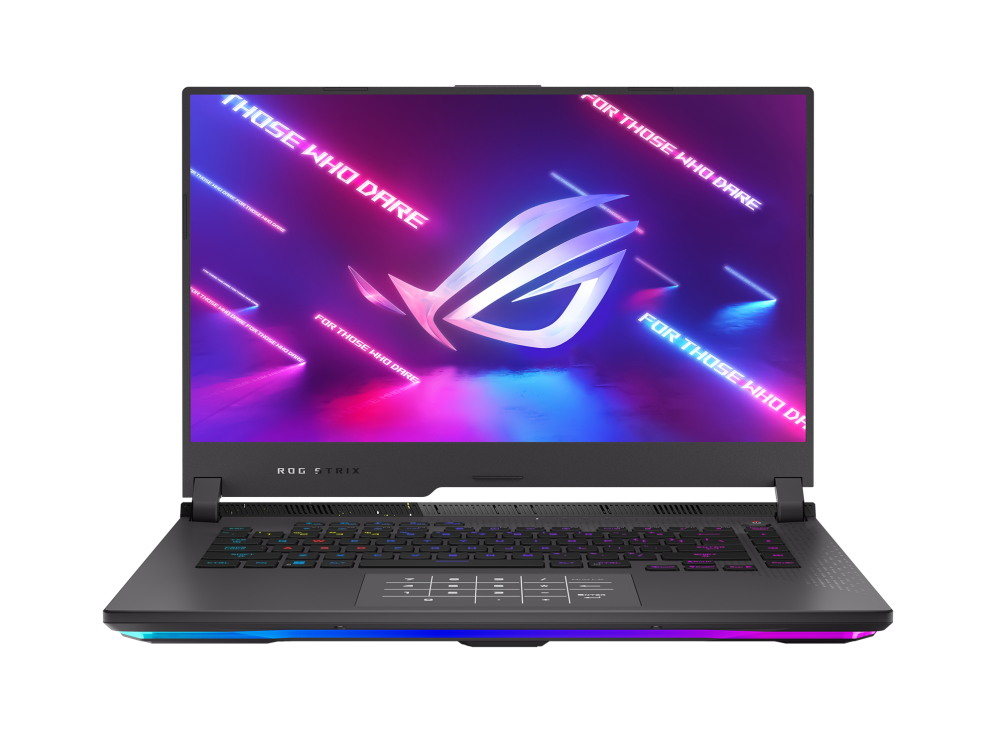
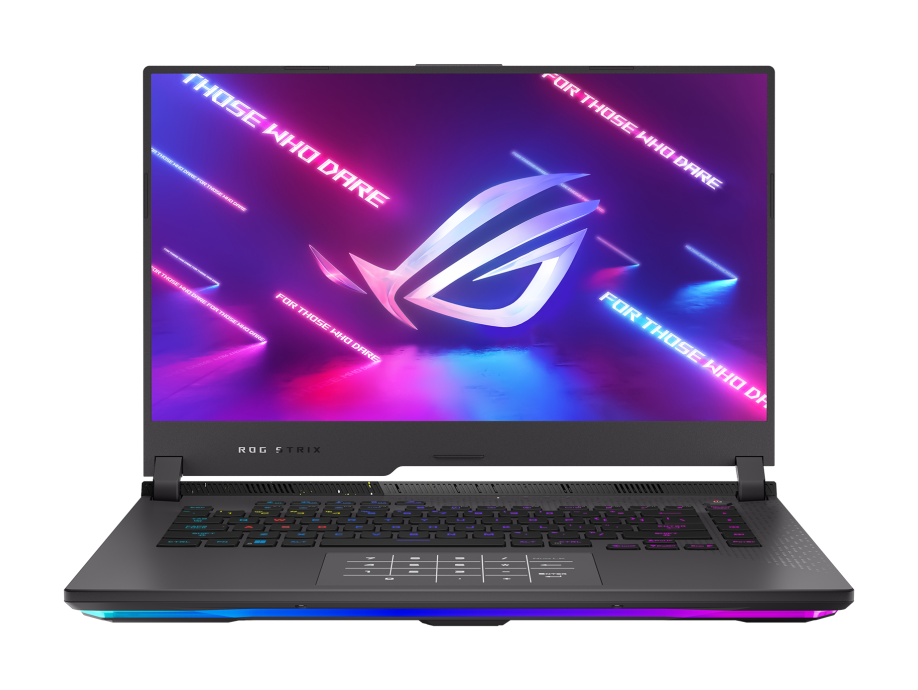
Refine equipment page layout and image assets

Changed region(s): [[0.061, 0.0913, 0.9455, 0.913], [0.2745, 0.3043, 0.305, 0.3348]]

diff --git a/source/css/custom.css b/source/css/custom.css
@@ -5082,9 +5082,9 @@ textarea[disabled],
 
 /* Devices page: liushen-style equipment cards */
 .equipv2-page {
-  max-width: 1240px;
+  max-width: 1200px;
   margin: 0 auto;
-  padding: 4px 2px 18px;
+  padding: 0 2px 18px;
 }
 
 .equipv2-head {
@@ -5189,19 +5189,16 @@ textarea[disabled],
   grid-template-rows: auto 1fr auto;
   min-height: 0;
   overflow: hidden;
-  border: 1px solid rgba(190, 204, 220, 0.62);
-  border-radius: 8px;
-  background:
-    linear-gradient(180deg, rgba(255, 255, 255, 0.72), rgba(255, 255, 255, 0.5)),
-    var(--card-bg);
-  box-shadow: 0 10px 24px rgba(15, 23, 42, 0.06);
+  border: 0;
+  border-radius: 10px;
+  background: color-mix(in srgb, var(--card-bg) 92%, rgba(255, 255, 255, 0.78));
+  box-shadow: 0 8px 22px rgba(15, 23, 42, 0.06);
   transition: transform 0.22s ease, box-shadow 0.22s ease, border-color 0.22s ease;
 }
 
 .equipv2-card:hover {
-  transform: translateY(-4px);
-  border-color: rgba(22, 163, 199, 0.36);
-  box-shadow: 0 16px 32px rgba(15, 23, 42, 0.1);
+  transform: translateY(-3px);
+  box-shadow: 0 14px 28px rgba(15, 23, 42, 0.12);
 }
 
 .equipv2-card-cover {
@@ -5209,46 +5206,64 @@ textarea[disabled],
   display: flex;
   align-items: center;
   justify-content: center;
-  aspect-ratio: 16 / 11;
-  padding: 18px;
-  border-bottom: 1px solid rgba(190, 204, 220, 0.42);
-  background:
-    radial-gradient(circle at 50% 18%, rgba(255, 255, 255, 0.86), transparent 46%),
-    linear-gradient(135deg, #eef7fb 0%, #f7fafc 46%, #fff8e6 100%);
+  height: 220px;
+  padding: 14px 18px;
+  border-bottom: 0;
+  background: transparent;
+  font-size: 0;
+  line-height: 0;
 }
 
 .equipv2-card:nth-child(2n) .equipv2-card-cover {
-  background:
-    radial-gradient(circle at 50% 18%, rgba(255, 255, 255, 0.86), transparent 46%),
-    linear-gradient(135deg, #f1f8f3 0%, #f8fbff 50%, #edf5ff 100%);
+  background: transparent;
 }
 
 .equipv2-card:nth-child(3n) .equipv2-card-cover {
-  background:
-    radial-gradient(circle at 50% 18%, rgba(255, 255, 255, 0.86), transparent 46%),
-    linear-gradient(135deg, #f5f7fb 0%, #fff7ed 52%, #eefaf6 100%);
+  background: transparent;
 }
 
 .equipv2-card-cover img {
-  width: min(88%, 300px);
-  height: min(88%, 230px);
+  display: block;
+  flex: 0 0 auto;
+  margin: auto;
+  width: min(82%, 230px);
+  height: 186px;
   object-fit: contain;
-  filter: drop-shadow(0 18px 22px rgba(15, 23, 42, 0.16));
+  object-position: center center;
+  filter: drop-shadow(0 14px 16px rgba(15, 23, 42, 0.14));
+  color: transparent;
+  font-size: 0;
+  text-indent: -9999px;
   transition: transform 0.24s ease;
 }
 
+.equipv2-card-cover .equipv2-img-wide {
+  width: min(88%, 292px);
+  height: 186px;
+}
+
+.equipv2-card-cover .equipv2-img-tall {
+  width: min(56%, 150px);
+  height: 198px;
+}
+
+.equipv2-card-cover .equipv2-img-square {
+  width: min(68%, 184px);
+  height: 184px;
+}
+
 .equipv2-card:hover .equipv2-card-cover img {
-  transform: scale(1.04);
+  transform: translateY(-2px) scale(1.025);
 }
 
 .equipv2-card-body {
   display: grid;
   align-content: start;
   gap: 8px;
-  padding: 15px 16px 4px;
+  padding: 10px 16px 4px;
 }
 
-.equipv2-card-body h3 {
+.equipv2-card-title {
   margin: 0;
   overflow: hidden;
   text-overflow: ellipsis;
@@ -5259,7 +5274,7 @@ textarea[disabled],
   color: var(--font-color);
 }
 
-.equipv2-card:hover .equipv2-card-body h3 {
+.equipv2-card:hover .equipv2-card-title {
   color: #16a3c7;
 }
 
@@ -5314,20 +5329,18 @@ textarea[disabled],
 }
 
 [data-theme="dark"] .equipv2-card {
-  border-color: rgba(96, 116, 148, 0.46);
-  background:
-    linear-gradient(180deg, rgba(20, 28, 40, 0.74), rgba(14, 20, 30, 0.72)),
-    var(--card-bg);
+  background: color-mix(in srgb, var(--card-bg) 88%, rgba(27, 35, 50, 0.62));
   box-shadow: 0 12px 30px rgba(0, 0, 0, 0.26);
 }
 
 [data-theme="dark"] .equipv2-card-cover,
 [data-theme="dark"] .equipv2-card:nth-child(2n) .equipv2-card-cover,
 [data-theme="dark"] .equipv2-card:nth-child(3n) .equipv2-card-cover {
-  border-bottom-color: rgba(96, 116, 148, 0.36);
-  background:
-    radial-gradient(circle at 50% 18%, rgba(255, 255, 255, 0.08), transparent 46%),
-    linear-gradient(135deg, #111827 0%, #162235 50%, #1f2937 100%);
+  background: transparent;
+}
+
+[data-theme="dark"] .equipv2-card-cover img {
+  filter: drop-shadow(0 14px 18px rgba(0, 0, 0, 0.26));
 }
 
 [data-theme="dark"] .equipv2-head-tags a {
@@ -5340,14 +5353,13 @@ textarea[disabled],
   background: #72d8ee;
 }
 
-@media (min-width: 1080px) {
-  .equipv2-card-featured {
-    grid-column: span 2;
+@media (min-width: 1280px) {
+  .equipv2-page {
+    max-width: 1320px;
   }
 
-  .equipv2-card-featured .equipv2-card-cover img {
-    width: min(78%, 520px);
-    max-width: 520px;
+  .equipv2-grid {
+    grid-template-columns: repeat(4, minmax(0, 1fr));
   }
 }
 
@@ -5386,13 +5398,28 @@ textarea[disabled],
   }
 
   .equipv2-card-cover {
-    aspect-ratio: 16 / 10;
-    padding: 14px;
+    height: 208px;
+    padding: 12px 14px;
   }
 
   .equipv2-card-cover img {
-    width: min(90%, 280px);
-    height: min(88%, 210px);
+    width: min(82%, 238px);
+    height: 178px;
+  }
+
+  .equipv2-card-cover .equipv2-img-wide {
+    width: min(90%, 300px);
+    height: 178px;
+  }
+
+  .equipv2-card-cover .equipv2-img-tall {
+    width: min(54%, 144px);
+    height: 188px;
+  }
+
+  .equipv2-card-cover .equipv2-img-square {
+    width: min(66%, 178px);
+    height: 178px;
   }
 
   .equipv2-card-body {

diff --git a/source/equipment/index.md b/source/equipment/index.md
@@ -28,9 +28,9 @@ comments: false
 </div>
 <div class="equipv2-grid">
 
-<article class="equipv2-card equipv2-card-featured"><div class="equipv2-card-cover"><img src="/img/devices/魔霸新锐2022.png" alt="ROG 魔霸新锐 2022" loading="lazy"/></div><div class="equipv2-card-body"><h3 title="ROG 魔霸新锐 2022">ROG 魔霸新锐 2022</h3><div class="equipv2-card-spec">游戏本 · 主力开发机</div><p>目前最核心的生产力设备，负责写代码、跑环境、处理多任务和偶尔的高性能需求。性能给得很足，适合长时间折腾项目。</p></div><div class="equipv2-card-foot"><a href="https://rog.asus.com.cn/laptops/rog-strix/rog-strix-g15-2022-series/" target="_blank" rel="external nofollow noreferrer">详情</a></div></article>
+<article class="equipv2-card"><div class="equipv2-card-cover"><img class="equipv2-img-wide" src="/img/devices/魔霸新锐2022.png" alt="" loading="lazy"/></div><div class="equipv2-card-body"><div class="equipv2-card-title" title="ROG 魔霸新锐 2022">ROG 魔霸新锐 2022</div><div class="equipv2-card-spec">游戏本 · 主力开发机</div><p>目前最核心的生产力设备，负责写代码、跑环境、处理多任务和偶尔的高性能需求。性能给得很足，适合长时间折腾项目。</p></div><div class="equipv2-card-foot"><a href="https://rog.asus.com.cn/laptops/rog-strix/rog-strix-g15-2022-series/" target="_blank" rel="external nofollow noreferrer">详情</a></div></article>
 
-<article class="equipv2-card"><div class="equipv2-card-cover"><img src="/img/devices/ipad%20air%204.png" alt="iPad Air 4" loading="lazy"/></div><div class="equipv2-card-body"><h3 title="iPad Air 4">iPad Air 4</h3><div class="equipv2-card-spec">平板 · 阅读 / 笔记</div><p>阅读文档、看课件、轻量批注都很顺手。它更像一块随手拿起的第二屏，适合把资料和主力电脑分开。</p></div><div class="equipv2-card-foot"><a href="https://support.apple.com/kb/SP828?locale=zh_CN" target="_blank" rel="external nofollow noreferrer">详情</a></div></article>
+<article class="equipv2-card"><div class="equipv2-card-cover"><img class="equipv2-img-tall" src="/img/devices/ipad_air_4-removebg-preview.png" alt="" loading="lazy"/></div><div class="equipv2-card-body"><div class="equipv2-card-title" title="iPad Air 4">iPad Air 4</div><div class="equipv2-card-spec">平板 · 阅读 / 笔记</div><p>阅读文档、看课件、轻量批注都很顺手。它更像一块随手拿起的第二屏，适合把资料和主力电脑分开。</p></div><div class="equipv2-card-foot"><a href="https://support.apple.com/kb/SP828?locale=zh_CN" target="_blank" rel="external nofollow noreferrer">详情</a></div></article>
 
 </div>
 </section>
@@ -42,11 +42,11 @@ comments: false
 </div>
 <div class="equipv2-grid">
 
-<article class="equipv2-card"><div class="equipv2-card-cover"><img src="/img/devices/苹果13.png" alt="iPhone 13" loading="lazy"/></div><div class="equipv2-card-body"><h3 title="iPhone 13">iPhone 13</h3><div class="equipv2-card-spec">手机 · 日常主力</div><p>负责通信、拍照、支付和日常信息流，系统稳定、拍照省心，是随身设备里最不需要操心的那一个。</p></div><div class="equipv2-card-foot"><a href="https://support.apple.com/kb/SP851?locale=zh_CN" target="_blank" rel="external nofollow noreferrer">详情</a></div></article>
+<article class="equipv2-card"><div class="equipv2-card-cover"><img class="equipv2-img-tall" src="/img/devices/苹果13-removebg-preview.png" alt="" loading="lazy"/></div><div class="equipv2-card-body"><div class="equipv2-card-title" title="iPhone 13">iPhone 13</div><div class="equipv2-card-spec">手机 · 日常主力</div><p>负责通信、拍照、支付和日常信息流，系统稳定、拍照省心，是随身设备里最不需要操心的那一个。</p></div><div class="equipv2-card-foot"><a href="https://support.apple.com/kb/SP851?locale=zh_CN" target="_blank" rel="external nofollow noreferrer">详情</a></div></article>
 
-<article class="equipv2-card"><div class="equipv2-card-cover"><img src="/img/devices/meizu20.png" alt="魅族 20" loading="lazy"/></div><div class="equipv2-card-body"><h3 title="魅族 20">魅族 20</h3><div class="equipv2-card-spec">手机 · 安卓体验机</div><p>用来保留 Android 侧的体验和折腾空间，也适合做双平台测试。轻快的系统和直屏手感很适合日常把玩。</p></div><div class="equipv2-card-foot"><a href="https://www.meizu.com/meizu20" target="_blank" rel="external nofollow noreferrer">详情</a></div></article>
+<article class="equipv2-card"><div class="equipv2-card-cover"><img class="equipv2-img-tall" src="/img/devices/meizu20-removebg-preview.png" alt="" loading="lazy"/></div><div class="equipv2-card-body"><div class="equipv2-card-title" title="魅族 20">魅族 20</div><div class="equipv2-card-spec">手机 · 安卓体验机</div><p>用来保留 Android 侧的体验和折腾空间，也适合做双平台测试。轻快的系统和直屏手感很适合日常把玩。</p></div><div class="equipv2-card-foot"><a href="https://www.meizu.com/meizu20" target="_blank" rel="external nofollow noreferrer">详情</a></div></article>
 
-<article class="equipv2-card"><div class="equipv2-card-cover"><img src="/img/devices/oppo%20enco%20free%204.png" alt="OPPO Enco Free4" loading="lazy"/></div><div class="equipv2-card-body"><h3 title="OPPO Enco Free4">OPPO Enco Free4</h3><div class="equipv2-card-spec">耳机 · 无线降噪</div><p>通勤、会议和刷视频都很常用，佩戴轻松，降噪够用。外出时能把环境音压下去，让注意力更容易回来。</p></div><div class="equipv2-card-foot"><a href="https://www.oppo.com/cn/headphones/" target="_blank" rel="external nofollow noreferrer">详情</a></div></article>
+<article class="equipv2-card"><div class="equipv2-card-cover"><img class="equipv2-img-wide" src="/img/devices/oppo_enco_free_4-removebg-preview.png" alt="" loading="lazy"/></div><div class="equipv2-card-body"><div class="equipv2-card-title" title="OPPO Enco Free4">OPPO Enco Free4</div><div class="equipv2-card-spec">耳机 · 无线降噪</div><p>通勤、会议和刷视频都很常用，佩戴轻松，降噪够用。外出时能把环境音压下去，让注意力更容易回来。</p></div><div class="equipv2-card-foot"><a href="https://www.oppo.com/cn/headphones/" target="_blank" rel="external nofollow noreferrer">详情</a></div></article>
 
 </div>
 </section>
@@ -58,9 +58,9 @@ comments: false
 </div>
 <div class="equipv2-grid">
 
-<article class="equipv2-card"><div class="equipv2-card-cover"><img src="/img/devices/pmo%20p75.png" alt="PMO P75" loading="lazy"/></div><div class="equipv2-card-body"><h3 title="PMO P75">PMO P75</h3><div class="equipv2-card-spec">键盘 · 75 配列</div><p>兼顾功能键和桌面空间，适合长时间输入。相比全尺寸更清爽，也比小配列少一些组合键负担。</p></div><div class="equipv2-card-foot"><a href="https://search.jd.com/Search?keyword=PMO%20P75" target="_blank" rel="external nofollow noreferrer">详情</a></div></article>
+<article class="equipv2-card"><div class="equipv2-card-cover"><img class="equipv2-img-square" src="/img/devices/pmo_p75-removebg-preview.png" alt="" loading="lazy"/></div><div class="equipv2-card-body"><div class="equipv2-card-title" title="PMO P75">PMO P75</div><div class="equipv2-card-spec">键盘 · 75 配列</div><p>兼顾功能键和桌面空间，适合长时间输入。相比全尺寸更清爽，也比小配列少一些组合键负担。</p></div><div class="equipv2-card-foot"><a href="https://search.jd.com/Search?keyword=PMO%20P75" target="_blank" rel="external nofollow noreferrer">详情</a></div></article>
 
-<article class="equipv2-card"><div class="equipv2-card-cover"><img src="/img/devices/多彩m800ultra.png" alt="多彩 M800 Ultra" loading="lazy"/></div><div class="equipv2-card-body"><h3 title="多彩 M800 Ultra">多彩 M800 Ultra</h3><div class="equipv2-card-spec">鼠标 · 轻量无线</div><p>轻量、响应快，长时间移动也不累。它是桌面上最容易被忽略但最影响手感的设备之一。</p></div><div class="equipv2-card-foot"><a href="https://search.jd.com/Search?keyword=%E5%A4%9A%E5%BD%A9%20M800%20Ultra" target="_blank" rel="external nofollow noreferrer">详情</a></div></article>
+<article class="equipv2-card"><div class="equipv2-card-cover"><img class="equipv2-img-square" src="/img/devices/多彩m800ultra-removebg-preview.png" alt="" loading="lazy"/></div><div class="equipv2-card-body"><div class="equipv2-card-title" title="多彩 M800 Ultra">多彩 M800 Ultra</div><div class="equipv2-card-spec">鼠标 · 轻量无线</div><p>轻量、响应快，长时间移动也不累。它是桌面上最容易被忽略但最影响手感的设备之一。</p></div><div class="equipv2-card-foot"><a href="https://search.jd.com/Search?keyword=%E5%A4%9A%E5%BD%A9%20M800%20Ultra" target="_blank" rel="external nofollow noreferrer">详情</a></div></article>
 
 </div>
 </section>
